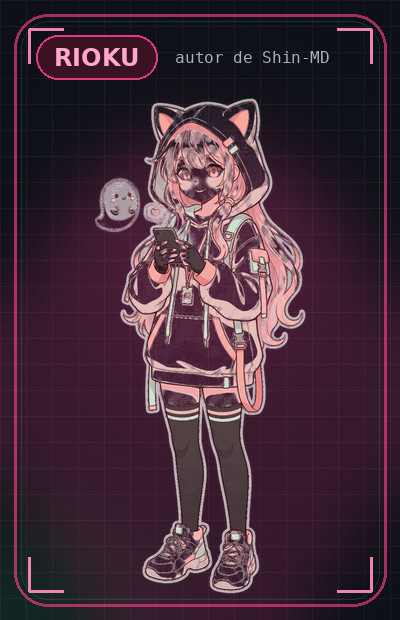
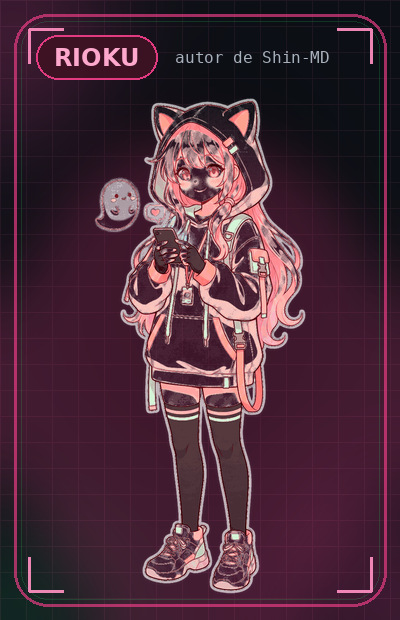
Contador propio estilo moe, y el chibi con color
- tools/contador.js: dibuja docs/assets/visitas.svg con los commits y los
  dias en linea, medidos con git. Tipografia de pixeles (5x7) en tarjetas
  blancas inclinadas con orejitas, en la paleta verde/rosa de la marca.
  Sin servicios externos: count.getloli.com y sus espejos responden 403
  detras de Cloudflare, por eso salian rotos.
- .github/workflows/contador.yml: lo regenera en cada push y una vez al
  dia, y guarda el SVG solo. `npm run contador` lo hace a mano.
- README: el contador va en el pie (520 px) y el bloque plegable explica
  la verdad en vez de dejar una imagen que no carga.
- tools/rioku-card.py: el chibi recupera el color (saturacion +1.45) y el
  rosa pasa a las esquinas, con foco oscuro detras para que el line-art
  claro no se lave contra el fondo.

diff --git a/tools/contador.js b/tools/contador.js
@@ -1,0 +1,132 @@
+#!/usr/bin/env node
+/**
+ * Levi-MD — contador estilo moe para el README.
+ * Copyright (C) 2026 riokuroxi-svg
+ * SPDX-License-Identifier: AGPL-3.0-only
+ *
+ * Los contadores publicos (count.getloli.com y sus espejos) estan detras de
+ * Cloudflare: GitHub los pide, recibe un 403 y deja la imagen rota. Asi que el
+ * contador vive aqui: este script mide dos cosas REALES del repositorio
+ * (commits y dias en linea) y dibuja un SVG de pixel-art con esos numeros.
+ *
+ * Lo llama .github/workflows/contador.yml cada dia y en cada push.
+ * Uso: node tools/contador.js
+ */
+
+import fs from "node:fs";
+import path from "node:path";
+import { execFileSync } from "node:child_process";
+
+const RAIZ = path.resolve(import.meta.dirname, "..");
+const SALIDA = path.join(RAIZ, "docs", "assets", "visitas.svg");
+
+const git = (...args) => execFileSync("git", args, { cwd: RAIZ, encoding: "utf8" }).trim();
+
+// ── datos reales ────────────────────────────────────────────────────────────
+let commits = 0;
+let dias = 1;
+try {
+  commits = Number(git("rev-list", "--count", "HEAD")) || 0;
+  const primera = git("log", "--reverse", "--format=%as", "--max-parents=0").split("\n")[0];
+  const desde = Date.parse(`${primera}T00:00:00Z`);
+  if (Number.isFinite(desde)) {
+    dias = Math.max(1, Math.floor((Date.now() - desde) / 86_400_000) + 1);
+  }
+} catch {
+  // sin historial (clon superficial): se queda en los valores por defecto
+}
+
+// ── tipografia pixel 5x7 ────────────────────────────────────────────────────
+const DIGITOS = {
+  0: ["01110", "10001", "10011", "10101", "11001", "10001", "01110"],
+  1: ["00100", "01100", "00100", "00100", "00100", "00100", "01110"],
+  2: ["01110", "10001", "00001", "00010", "00100", "01000", "11111"],
+  3: ["11111", "00010", "00100", "00010", "00001", "10001", "01110"],
+  4: ["00010", "00110", "01010", "10010", "11111", "00010", "00010"],
+  5: ["11111", "10000", "11110", "00001", "00001", "10001", "01110"],
+  6: ["00110", "01000", "10000", "11110", "10001", "10001", "01110"],
+  7: ["11111", "00001", "00010", "00100", "01000", "01000", "01000"],
+  8: ["01110", "10001", "10001", "01110", "10001", "10001", "01110"],
+  9: ["01110", "10001", "10001", "01111", "00001", "00010", "01100"],
+};
+
+/** Dibuja un numero en bloques dentro de una tarjeta blanca. */
+function cifras(valor, x, y, celda) {
+  const texto = String(valor);
+  const anchoDigito = 5 * celda;
+  const hueco = celda * 1.6;
+  const total = texto.length * anchoDigito + (texto.length - 1) * hueco;
+  let cursor = x - total / 2;
+  let salida = "";
+  for (const ch of texto) {
+    const mapa = DIGITOS[ch];
+    if (!mapa) continue;
+    mapa.forEach((fila, fy) => {
+      [...fila].forEach((bit, fx) => {
+        if (bit === "1") {
+          salida += `<rect x="${(cursor + fx * celda).toFixed(1)}" y="${(y + fy * celda).toFixed(1)}" width="${celda}" height="${celda}"/>`;
+        }
+      });
+    });
+    cursor += anchoDigito + hueco;
+  }
+  return salida;
+}
+
+/** Una tarjeta blanca inclinada, como el cartel que sostienen en los contadores moe. */
+function tarjeta({ x, y, valor, etiqueta, acento, giro, celda = 8 }) {
+  const w = 132;
+  const h = 118;
+  const orejas = `
+    <path d="M${x + 22} ${y + 6} l16 -16 l16 16 z" fill="${acento}" opacity=".9"/>
+    <path d="M${x + w - 54} ${y + 6} l16 -16 l16 16 z" fill="${acento}" opacity=".9"/>`;
+  const digitos = cifras(valor, x + w / 2, y + 30, celda);
+  return `
+  <g transform="rotate(${giro} ${x + w / 2} ${y + h / 2})">
+    ${orejas}
+    <rect x="${x}" y="${y}" width="${w}" height="${h}" rx="14" fill="#0d1117" opacity=".55" transform="translate(4 6)"/>
+    <rect x="${x}" y="${y}" width="${w}" height="${h}" rx="14" fill="#fdfdff" stroke="${acento}" stroke-width="3"/>
+    <g fill="#12141a">${digitos}</g>
+    <g fill="${acento}">
+      <rect x="${x + 18}" y="${y + h - 22}" width="${w - 36}" height="3" rx="1.5" opacity=".55"/>
+    </g>
+    <text x="${x + w / 2}" y="${y + h + 23}" text-anchor="middle"
+      font-family="'DejaVu Sans Mono',ui-monospace,monospace" font-size="14"
+      letter-spacing="2.6" fill="${acento}">${etiqueta}</text>
+  </g>`;
+}
+
+const SVG = `<svg xmlns="http://www.w3.org/2000/svg" viewBox="0 0 660 230" width="660" height="230" role="img" aria-label="Levi-MD — ${commits} commits, ${dias} días en línea">
+  <title>Levi-MD · ${commits} commits · día ${dias}</title>
+  <defs>
+    <linearGradient id="brillo" x1="0" y1="0" x2="1" y2="1">
+      <stop offset="0%" stop-color="#25D366" stop-opacity=".16"/>
+      <stop offset="100%" stop-color="#EE3D86" stop-opacity=".14"/>
+    </linearGradient>
+    <pattern id="rejilla" width="22" height="22" patternUnits="userSpaceOnUse">
+      <path d="M22 0H0V22" fill="none" stroke="#25D366" stroke-opacity=".07" stroke-width="1"/>
+    </pattern>
+  </defs>
+
+  <rect x="1.5" y="1.5" width="657" height="227" rx="26" fill="#0d1117" stroke="#25D366" stroke-opacity=".45" stroke-width="3"/>
+  <rect x="1.5" y="1.5" width="657" height="227" rx="26" fill="url(#rejilla)"/>
+  <rect x="1.5" y="1.5" width="657" height="227" rx="26" fill="url(#brillo)"/>
+
+  <text x="36" y="98" font-family="'DejaVu Sans',Helvetica,Arial,sans-serif" font-size="27"
+    font-weight="700" letter-spacing="1.5" fill="#7CFFB2">LEVI-MD</text>
+  <text x="36" y="122" font-family="'DejaVu Sans Mono',ui-monospace,monospace" font-size="12.5"
+    letter-spacing="1.4" fill="#8b98a8">en linea sin caerse</text>
+  <circle cx="40" cy="146" r="4" fill="#25D366"/>
+  <text x="54" y="150" font-family="'DejaVu Sans Mono',ui-monospace,monospace" font-size="11.5"
+    letter-spacing="1.2" fill="#6f7c8c">anti-ban activo</text>
+
+  ${tarjeta({ x: 291, y: 38, valor: commits, etiqueta: "COMMITS", acento: "#25D366", giro: -4 })}
+  ${tarjeta({ x: 457, y: 38, valor: dias, etiqueta: "DIAS", acento: "#EE3D86", giro: 4 })}
+
+  <text x="36" y="216" font-family="'DejaVu Sans Mono',ui-monospace,monospace" font-size="11.5"
+    letter-spacing=".9" fill="#5d6875">contados por git · se actualiza solo</text>
+</svg>
+`;
+
+fs.writeFileSync(SALIDA, SVG);
+console.log(`visitas.svg → ${commits} commits · día ${dias} (${SALIDA})`);

diff --git a/tools/rioku-card.py b/tools/rioku-card.py
@@ -30,13 +30,22 @@ linea = np.zeros((H, W, 1), dtype=np.float32)
 linea[(yy.astype(int) % paso) == 0] = 8
 linea[..., 0][(xx.astype(int) % paso) == 0] = 8
 img = screen(img, np.repeat(linea, 3, axis=2) * np.array([2.4, 1, 1.6], dtype=np.float32))
-img = screen(img, luz(W * .50, H * .44, W * .50, H * .34, (122, 28, 70), .27))
+# rosa en las esquinas (no detras de la figura, que es clara y se lavaba)
+img = screen(img, luz(W * .04, H * .06, W * .42, H * .30, (128, 26, 74), .40))
+img = screen(img, luz(W * .96, H * .96, W * .42, H * .30, (128, 26, 74), .40))
+# foco oscuro central: separa el chibi del fondo
+foco = ((xx - W * .5) / (W * .42)) ** 2 + ((yy - H * .45) / (H * .40)) ** 2
+img = img * (1.0 - 0.42 * np.exp(-foco * 1.6))[..., None]
 img = screen(img, luz(W * .06, H * .98, W * .42, H * .26, (22, 110, 58), .22))
 
 lienzo = Image.fromarray(np.clip(img, 0, 255).astype(np.uint8)).convert("RGBA")
 
 # ── el chibi, con su transparencia ─────────────────────────────────────────
+from PIL import ImageEnhance
 chibi = Image.open("assets/rioku-chibi.png").convert("RGBA")
+rgb = ImageEnhance.Color(chibi.convert("RGB")).enhance(1.45)
+rgb = ImageEnhance.Contrast(rgb).enhance(1.12)
+chibi = Image.merge("RGBA", (*rgb.split(), chibi.getchannel("A")))
 alto = int(H * 0.80)
 ancho = int(chibi.width * alto / chibi.height)
 chibi = chibi.resize((ancho, alto), Image.LANCZOS)
@@ -44,7 +53,7 @@ chibi = chibi.resize((ancho, alto), Image.LANCZOS)
 # halo suave detras para despegarlo del fondo
 halo = Image.new("RGBA", (W, H), (0, 0, 0, 0))
 ImageDraw.Draw(halo).ellipse(
-    [W // 2 - ancho, H - alto - 10, W // 2 + ancho, H + 40], fill=ROSA + (46,))
+    [W // 2 - ancho, H - alto - 10, W // 2 + ancho, H + 40], fill=ROSA + (60,))
 halo = halo.filter(ImageFilter.GaussianBlur(34))
 lienzo = Image.alpha_composite(lienzo, halo)
 

diff --git a/README.md b/README.md
@@ -555,6 +555,7 @@ rompan):
 | `assets/levi-card.jpg` | tarjeta de presentación del README |
 | `assets/rioku-chibi.png` | avatar de riokuroxi-svg (viene de Shin-MD) |
 | `assets/rioku-chibi-card.jpg` | tarjeta de créditos del README |
+| `docs/assets/visitas.svg` | contador del README (se redibuja solo) |
 | `assets/imagenes/levi-banner.png` | banner del menú (día y noche) |
 | `assets/imagenes/levi-menu-1..3.jpg` | rotación de imágenes de `.menu` / `.menucat` |
 | `media/covers/levi-cover-1..3.jpg` | **portadas del `.play`** y del audio |
@@ -571,23 +572,24 @@ rompan):
 </div>
 
 <details>
-<summary><b>Contador de visitas animado (estilo Moe Counter)</b></summary>
+<summary><b>El contador (estilo Moe Counter)</b></summary>
 
-El contador con dibujos pixel-art que se ve en otros README **no se puede dejar
-puesto aquí**: `count.getloli.com` está detrás de Cloudflare y GitHub lo sirve
-como imagen rota. Si quieres tenerlo, pega esta línea al principio del README
-(abajo del todo funciona igual) **y comprueba en GitHub que carga**:
+Los contadores pixel-art de otros README se piden a `count.getloli.com`, que hoy
+está detrás de Cloudflare: GitHub pide la imagen, recibe un **403** y la deja
+rota. Sus espejos (`moe-counter.glitch.me`) redirigen al mismo sitio, así que
+tampoco sirven.
 
-```html
-<img src="https://count.getloli.com/get/@levi-md?theme=green" alt="visitas">
-```
+Por eso este repositorio trae **su propio contador**, sin depender de nadie:
 
-Temas disponibles: `green`, `moebooru`, `rule34`, `gelbooru`, `miku`, `asoul`,
-`minecraft`… Cambia `green` por el que te guste y `@levi-md` por el nombre que
-quieras (el contador es por nombre: si lo cambias, empieza de cero).
+- `tools/contador.js` mide dos cosas reales con git —**commits** y **días en
+  línea**— y dibuja el SVG con una tipografía de píxeles (números de 5×7 en
+  tarjetas blancas inclinadas, con orejitas).
+- `.github/workflows/contador.yml` lo ejecuta en cada push y una vez al día, y
+  guarda el SVG si cambió.
 
-Alternativa que **sí** funciona siempre (sin dibujos, pero sin romperse):
-`https://komarev.com/ghpvc/?username=brayanflores29925-ctrl&color=25D366`.
+Se puede tocar sin miedo: si el número se ve raro, `npm run contador` lo
+redibuja en un segundo. Y si algún día quieres el contador de visitas de verdad,
+este es el enlace, por si vuelve a estar arriba: `count.getloli.com/get/@levi-md`.
 
 </details>
 
@@ -710,6 +712,12 @@ modificar y sus términos de la Sección 7 aplican: el crédito
 no las usa como marca propia.
 
 <div align="center">
+
+<br>
+
+<img src="docs/assets/visitas.svg" alt="Contador de Levi-MD: commits y días en línea" width="520">
+
+<br><br>
 
 ---
 
